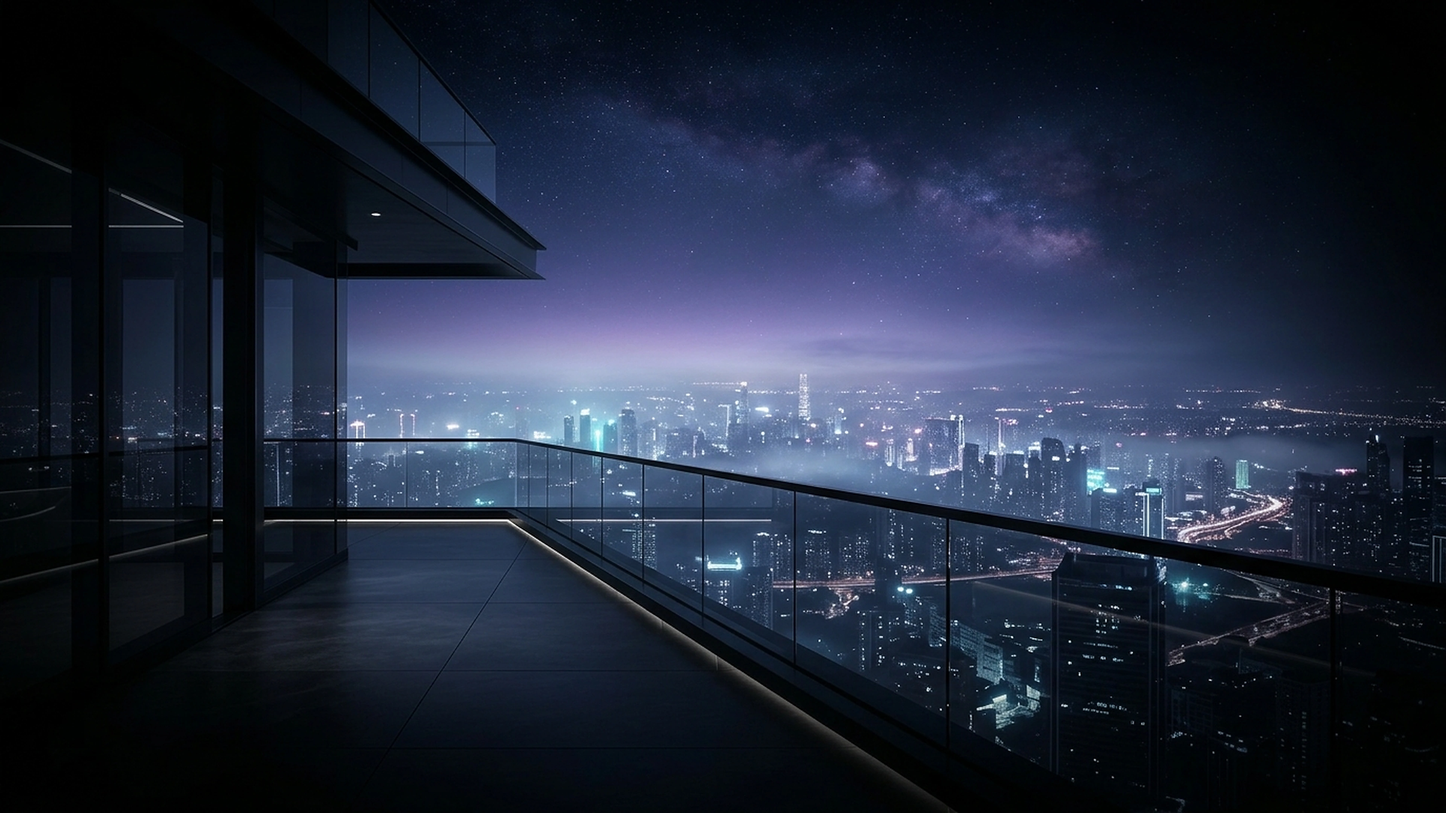
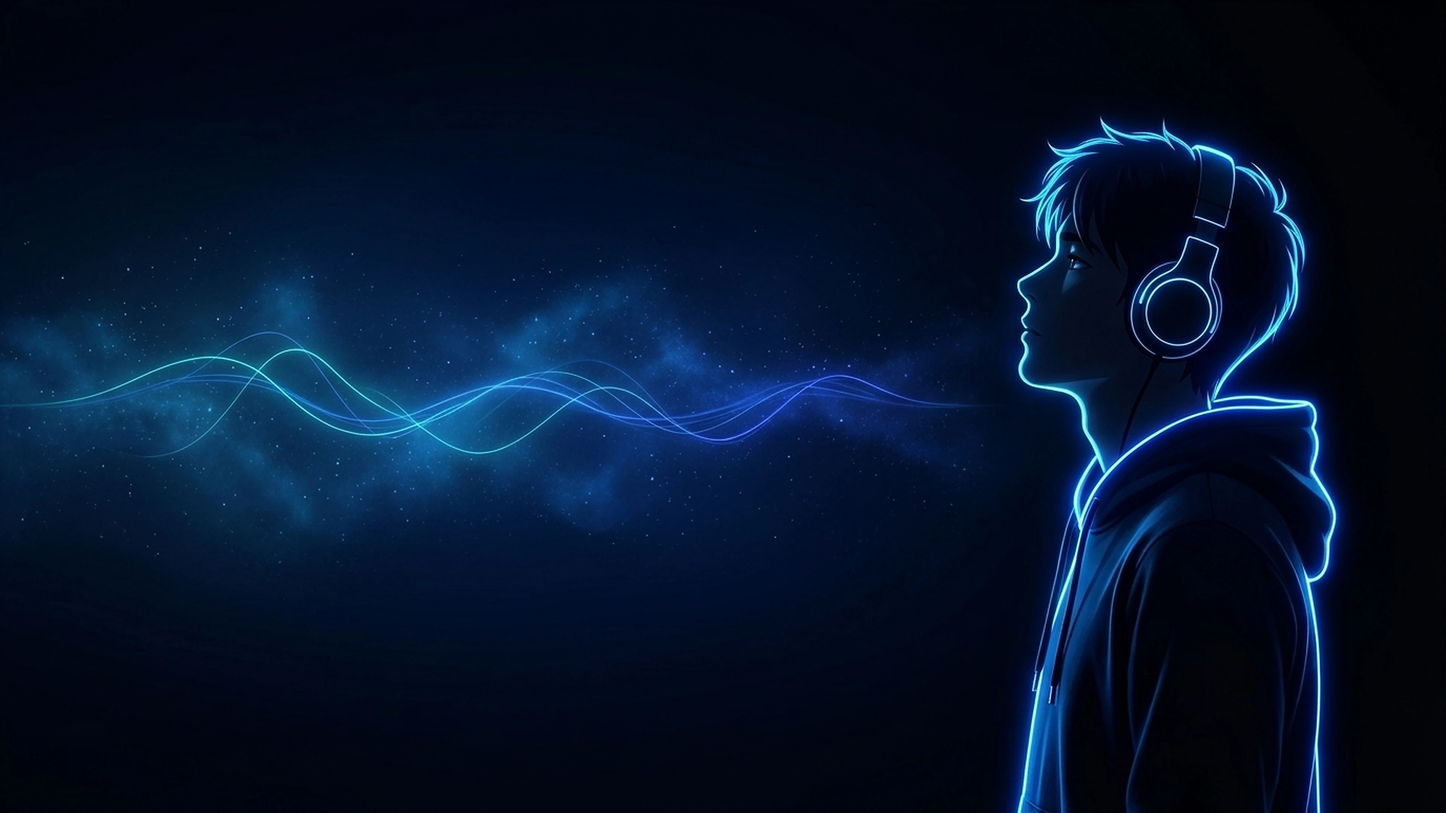
style: replace section 3 background with cohesive electric-blue anime silhouette matching site theme

diff --git a/src/components/PresentationView.tsx b/src/components/PresentationView.tsx
@@ -235,7 +235,7 @@ export default function PresentationView() {
       >
         <Image
           src="/cta-bg-4k.webp"
-          alt="Nebron Horizon"
+          alt="Nebron Audio Silhouette"
           fill
           priority
           unoptimized
@@ -243,7 +243,7 @@ export default function PresentationView() {
           className="object-cover object-center hero-image-render"
         />
         <div className="absolute inset-0 hero-dither pointer-events-none" />
-        <div className="absolute inset-0 bg-black/40 backdrop-blur-[0.5px]" />
+        <div className="absolute inset-0 bg-black/25 backdrop-blur-[0.5px]" />
       </div>
 
       {/* ============================================================== */}
